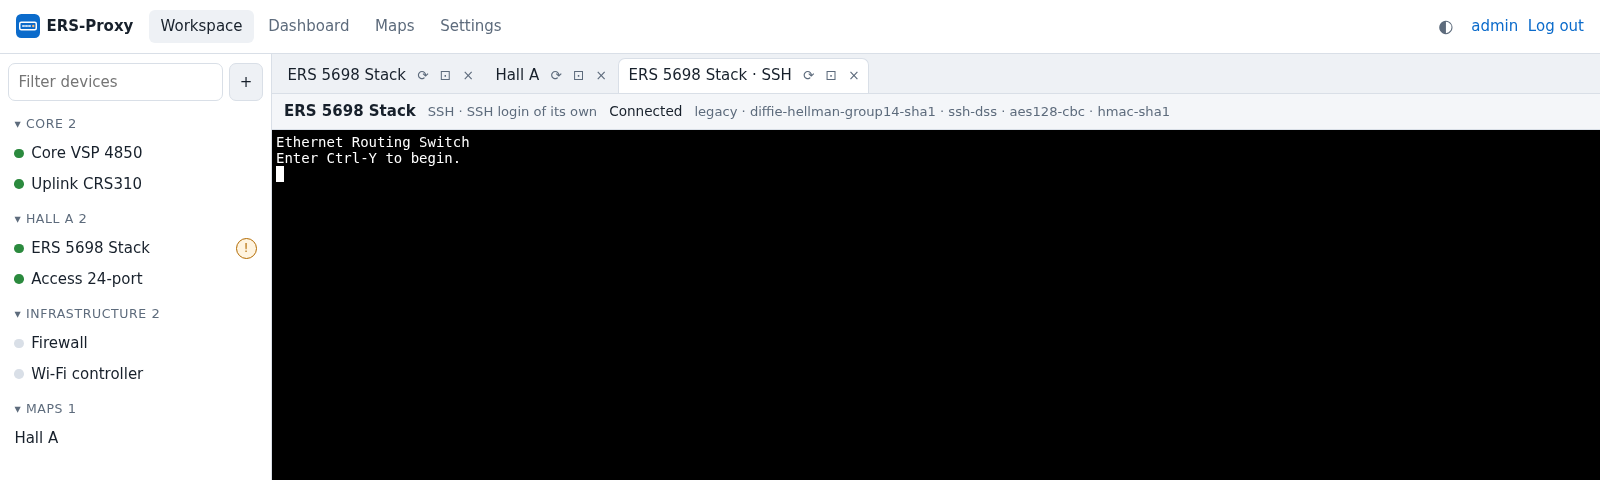
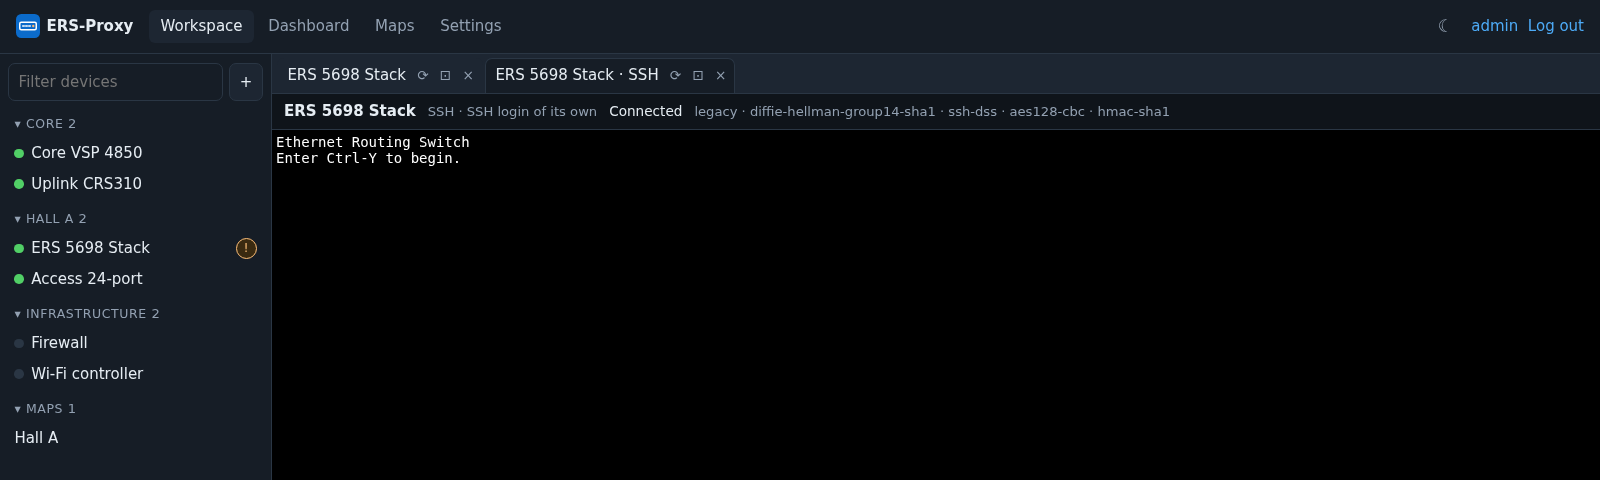
Take the README screenshots in the dark theme
All screenshots are retaken with the dark theme, and the floor plan
behind the map is dark as well. The map has one image instead of a
light and a dark one.

diff --git a/CHANGELOG.md b/CHANGELOG.md
@@ -38,8 +38,8 @@ uses [Semantic Versioning](https://semver.org/spec/v2.0.0.html).
 
 ### Changed
 
-- README: rewritten feature overview with screenshots of the workspace, the network map, the
-  port dashboard and the SSH console (`docs/images/`, taken from a demo setup).
+- README: rewritten feature overview with screenshots (dark theme) of the workspace, the network
+  map, the port dashboard and the SSH console (`docs/images/`, taken from a demo setup).
 
 - Login lockout: 5 failures lock the pair of client address and username, 20 failures lock a
   client address that tries many usernames; a username is no longer locked for everyone, so

diff --git a/README.md b/README.md
@@ -36,13 +36,6 @@ edit them. Maps also open as tabs in the workspace. Details:
 
 ![A network map on a floor plan: four switches, LLDP and manual links with live rates](docs/images/map.png)
 
-<details>
-<summary>The same map in the dark theme</summary>
-
-![The network map in the dark theme](docs/images/map-dark.png)
-
-</details>
-
 ### Port dashboard
 
 Every port of every monitored switch at a glance: link, speed, duplex, VLANs, PoE, LAG, LLDP
